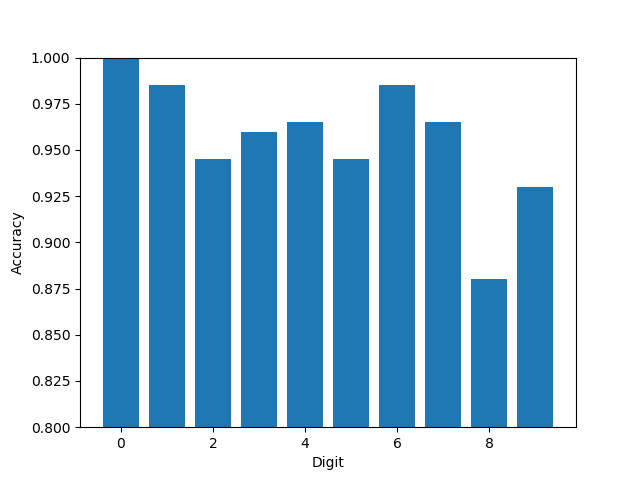
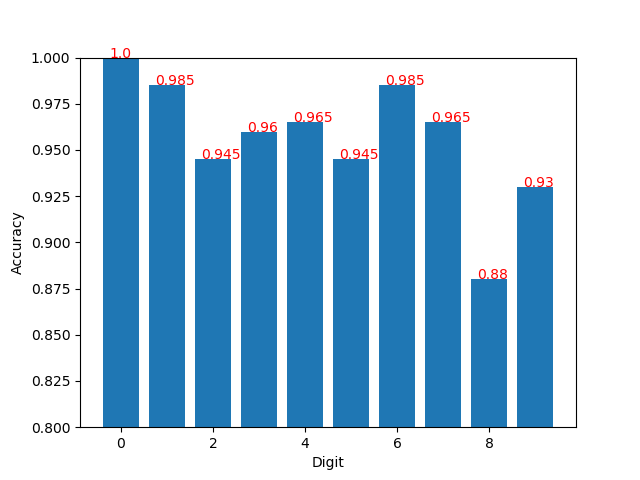
ann

diff --git a/ann.py b/ann.py
@@ -16,6 +16,30 @@ def loadData(name):
 			x.append(np.array(row[2:], dtype=int))
 			y.append(int(row[1]))
 	return x, y
+	
+def loadOneDigit(name):
+	x = []
+	label = int(name[0])
+	with open(name) as f:
+		reader = csv.reader(f)
+		for row in reader:
+			if reader.line_num == 1:
+				continue
+			x.append(np.array(row[1:], dtype=int))
+	return x, label
+
+def accuracy2(x_digit, label):
+	bestClf = MLPClassifier(activation='logistic', solver = 'adam',alpha=0.001,
+						hidden_layer_sizes=(49), learning_rate = 'constant',
+						learning_rate_init = 0.001, momentum=0.9, tol=0.0001)
+	bestClf.fit(x_train, y_train)
+	pred = bestClf.predict(x_digit)
+	count = len(x_digit)
+	right = 0
+	for y_pre in pred : 
+		if y_pre == label:
+			right += 1
+	return right/count
 
 def accuracyOneLayer(hidden):
 	clf = MLPClassifier(activation='logistic', hidden_layer_sizes=(hidden))
@@ -58,15 +82,16 @@ plt.grid(True)
 plt.show()
 '''
 
-mlp = MLPClassifier(activation='logistic', hidden_layer_sizes=(49))
-param_grid = {'solver': ['sgd', 'adam'],
+'''
+mlp = MLPClassifier(activation='logistic', solver = 'adam', hidden_layer_sizes=(49))
+param_grid = { #'solver': ['sgd', 'adam'],
               'alpha': [0.0001, 0.001, 0.01],   
               'learning_rate': ['constant', 'adaptive'],             
               'learning_rate_init': [0.0001, 0.001, 0.1 ], 
               'tol': [0.0001, 0.001, 0.005],
               'momentum': [0.9, 0.8, 0.7, 0.6]
              }
-gs = GridSearchCV(mlp, param_grid, cv=10)
+gs = GridSearchCV(mlp, param_grid, cv=5)
 gs.fit(x_train, y_train)
 #gs.grid_scores_   # is a 2-d list: [0]-param [1]-mean
 
@@ -77,5 +102,30 @@ for ele in gs.grid_scores_:
         maxMean = ele[1]
         param = ele[0]
 print(maxMean, param)
+'''
+
+'''
+bestClf = MLPClassifier(activation='logistic', solver = 'adam', alpha=0.001,
+						hidden_layer_sizes=(49), learning_rate = 'constant',
+						learning_rate_init = 0.001, momentum=0.9, tol=0.0001)
+bestClf.fit(x_train, y_train)
+print(bestClf.score(x_test, y_test))  #0.913
+'''
+
+# draw digit-disrtibution diagram
+num = np.arange(0, 10)
+myAccuracy2 = []
+for i in range(0, 10): 
+	x , label = loadOneDigit(str(i)+".csv")
+	myAccuracy2.append(accuracy2(x, label))
+	
+fig, ax = plt.subplots()	
+plt.bar(num, myAccuracy2)
+for i, v in zip(range(0, 10), myAccuracy2):
+    ax.text(i-0.25, v, str(v), color='red', fontsize=10)
+plt.ylim(0.8, 1) 
+plt.xlabel('Digit')
+plt.ylabel('Accuracy')
+plt.show()
 
 

diff --git a/knnLib.py b/knnLib.py
@@ -68,7 +68,11 @@ myAccuracy2 = []
 for i in range(0, 10): 
 	x , label = loadOneDigit(str(i)+".csv")
 	myAccuracy2.append(accuracy2(x, label))
+	
+fig, ax = plt.subplots()	
 plt.bar(num, myAccuracy2)
+for i, v in zip(range(0, 10), myAccuracy2):
+    ax.text(i-0.25, v, str(v), color='red', fontsize=10)
 plt.ylim(0.8, 1) 
 plt.xlabel('Digit')
 plt.ylabel('Accuracy')

diff --git a/dataExtract.py b/dataExtract.py
@@ -53,7 +53,7 @@ df = DataFrame(x_test)
 df.to_csv('testData.csv')
 '''
 
-# all training data, 1000 total, 1000 each
+# all training data, 10000 total, 1000 each
 count = np.zeros(10)
 x_train = []
 with open('train.csv') as f:
